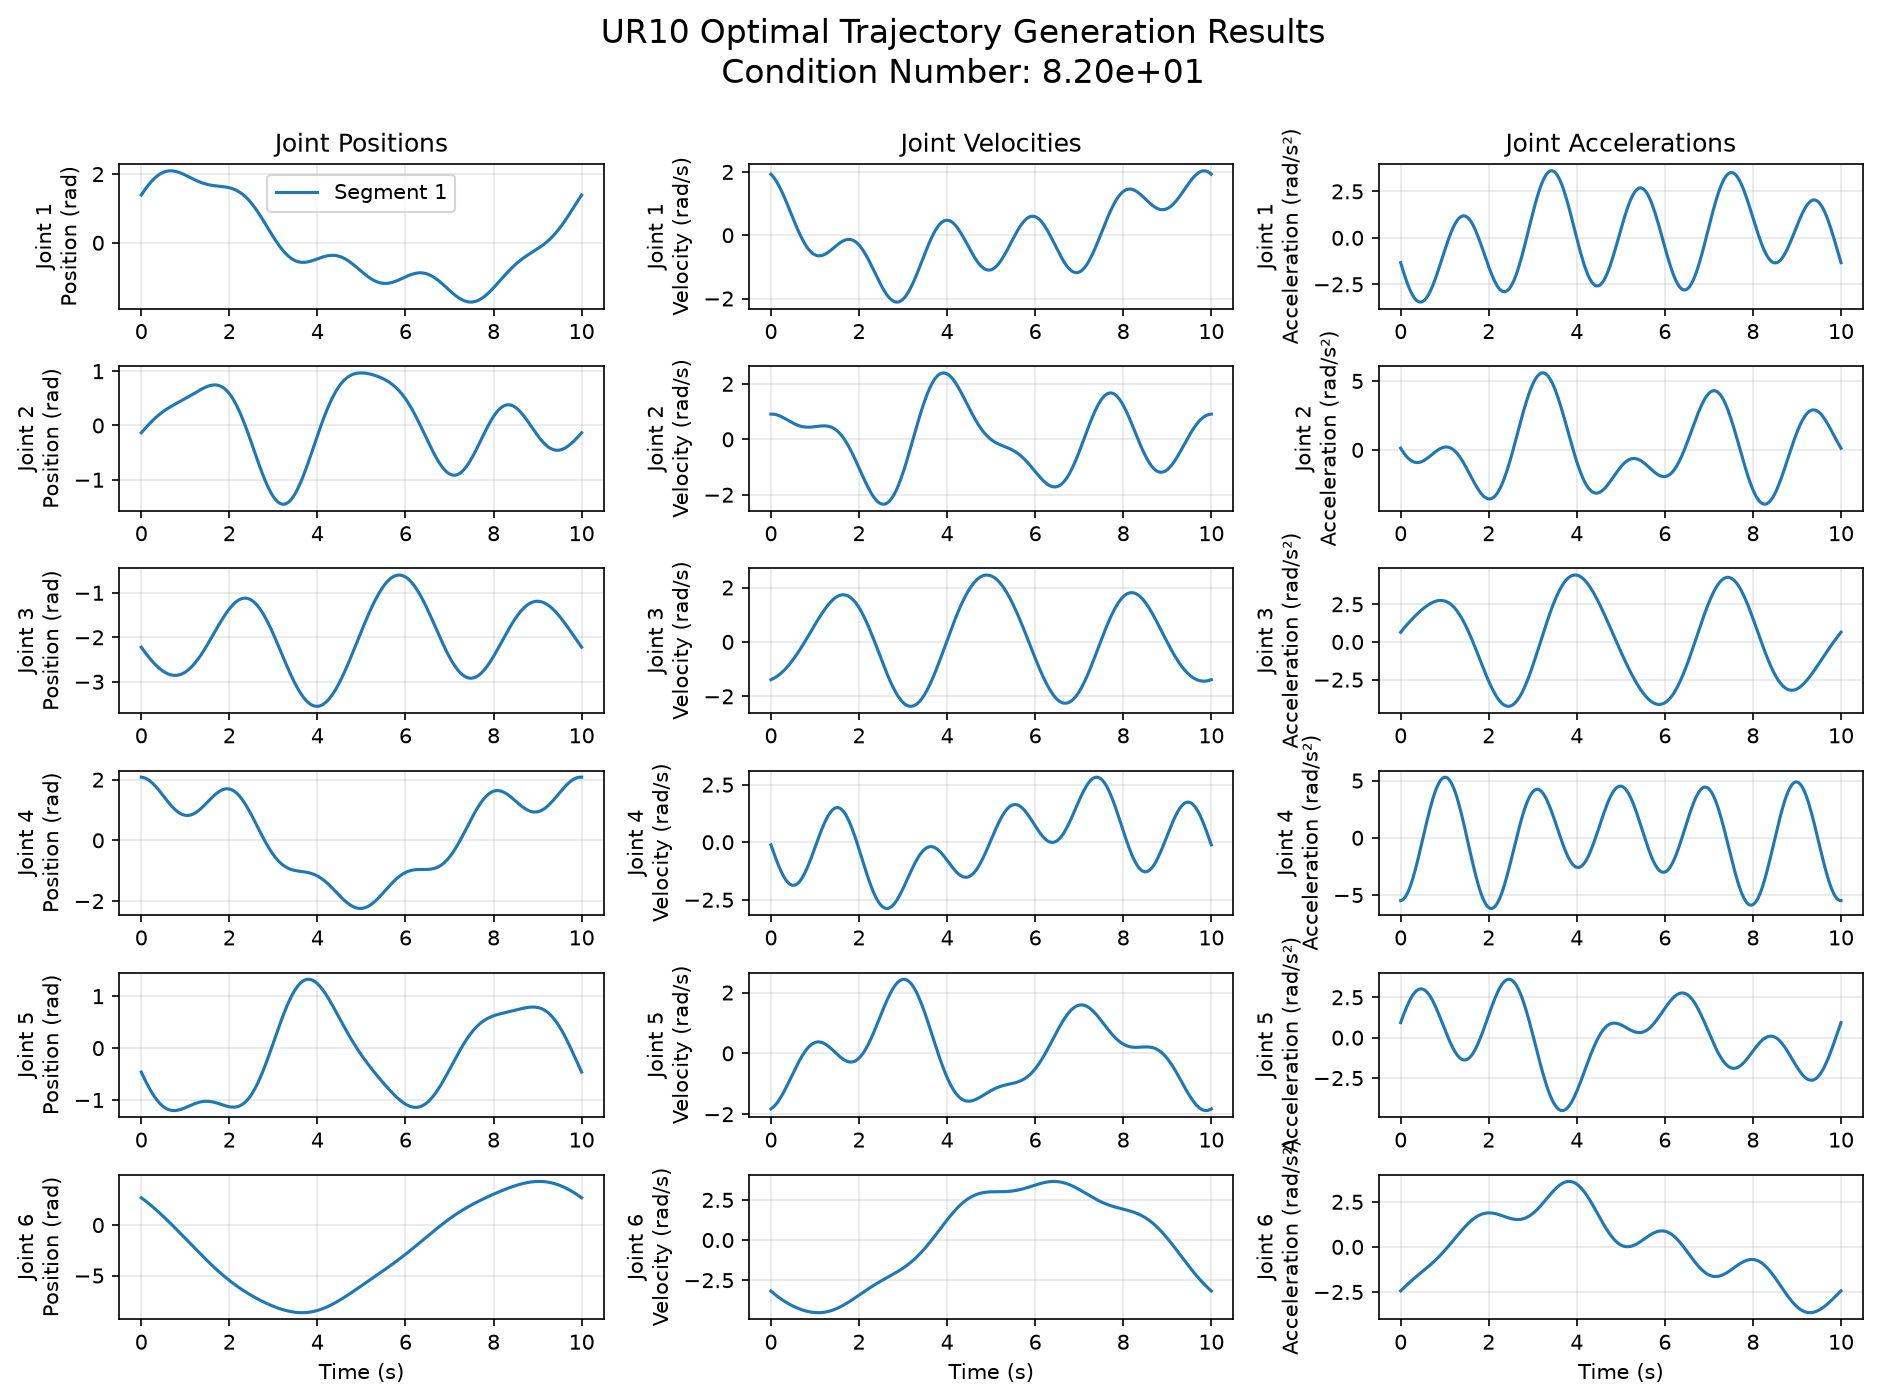
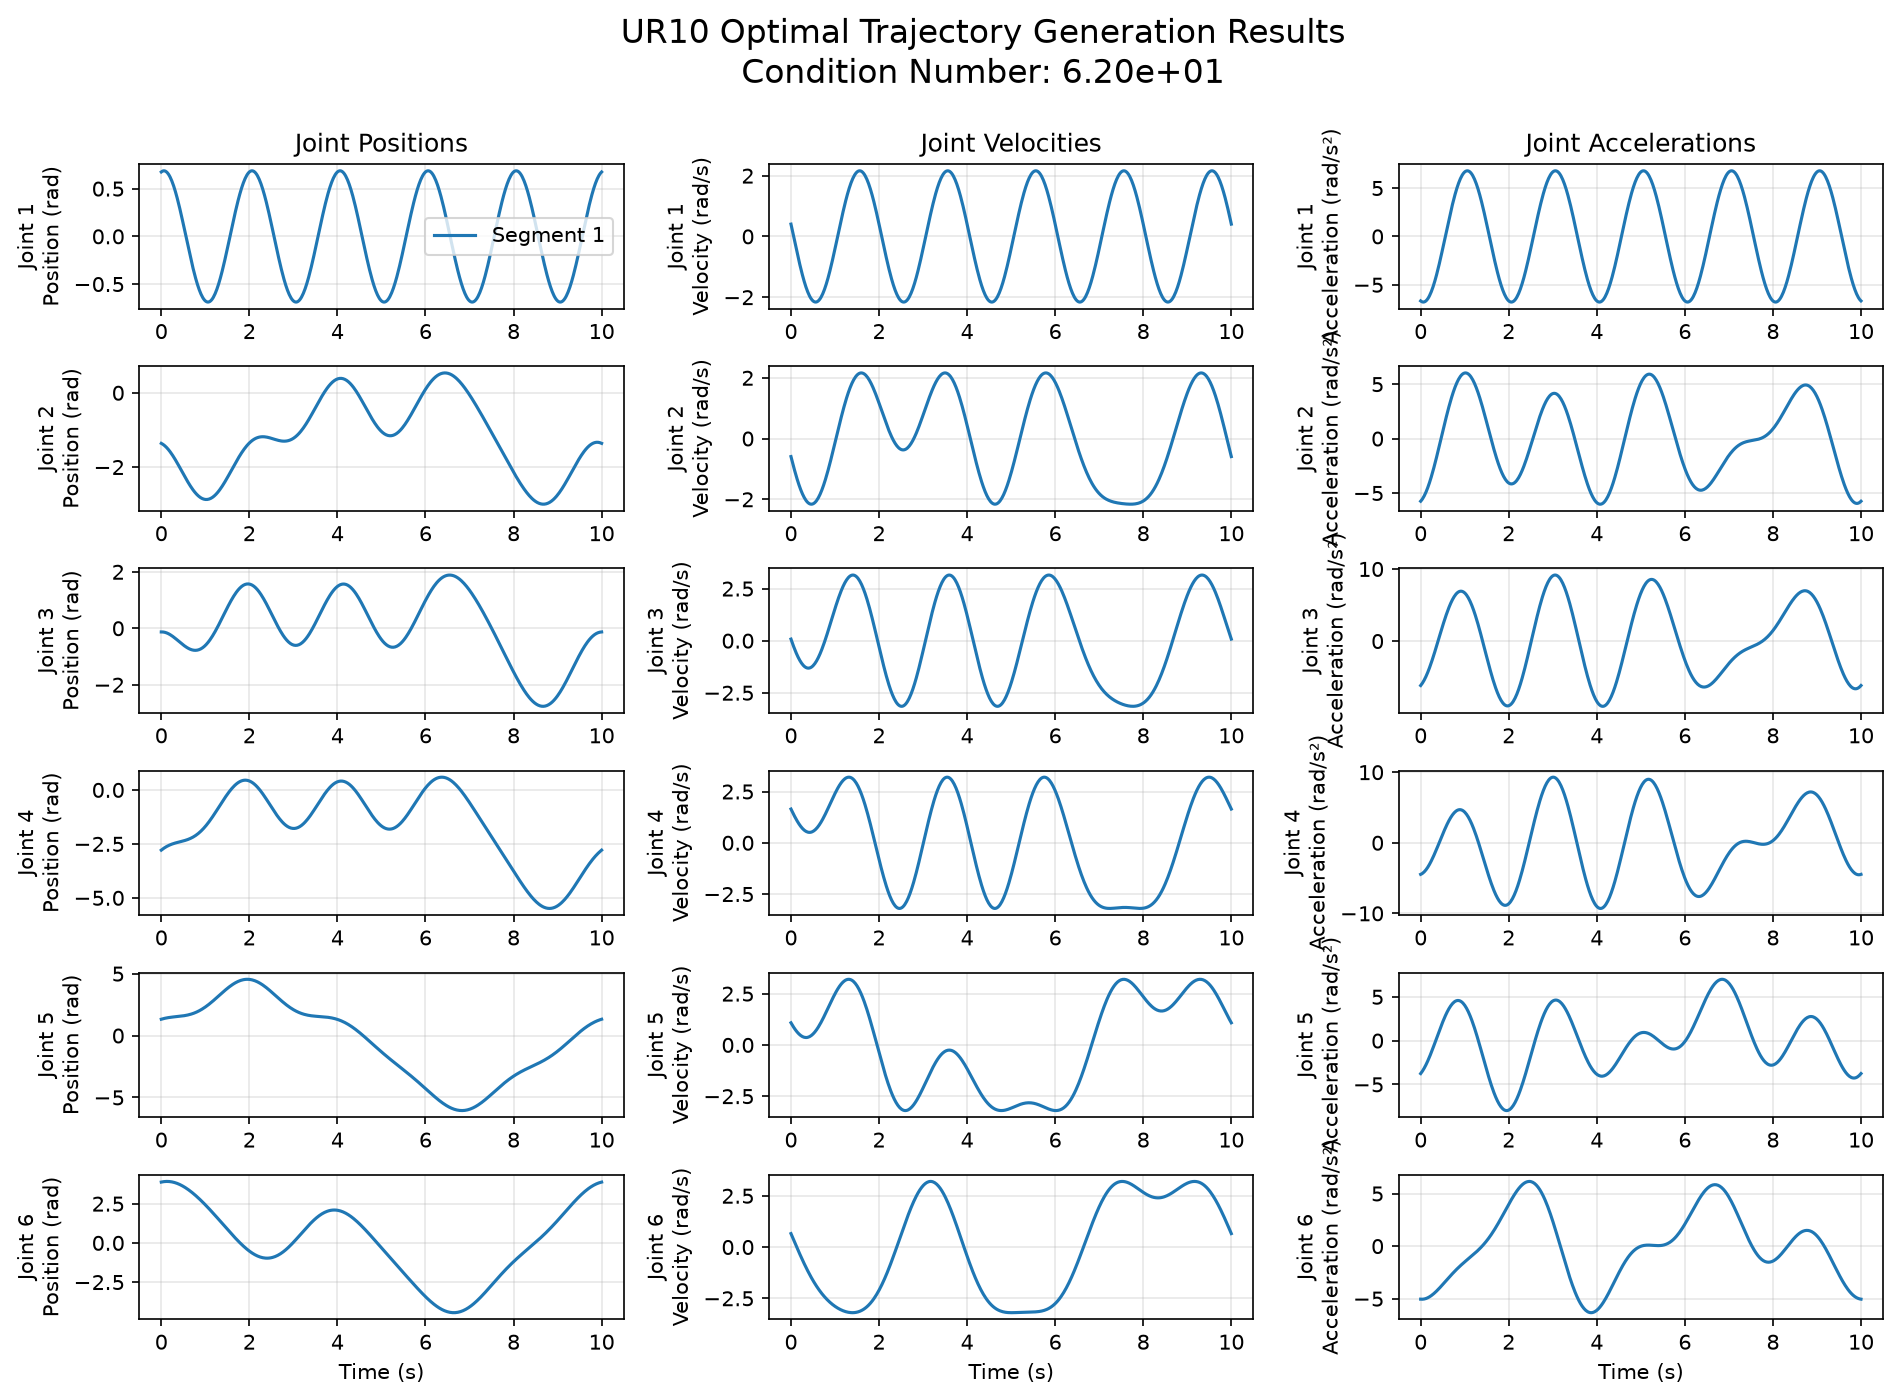
修改UR10例程

diff --git a/examples/ur10/optimal_trajectory.py b/examples/ur10/optimal_trajectory.py
@@ -73,7 +73,6 @@ def main(args: argparse.Namespace) -> None:
         optimal_trajectory = ur10_traj.solve()
 
         if optimal_trajectory is not None: 
-            print("Optimal trajectory generation completed successfully!")
             ur10_traj.save_results()
             ur10_traj.plot_results()
         else:
